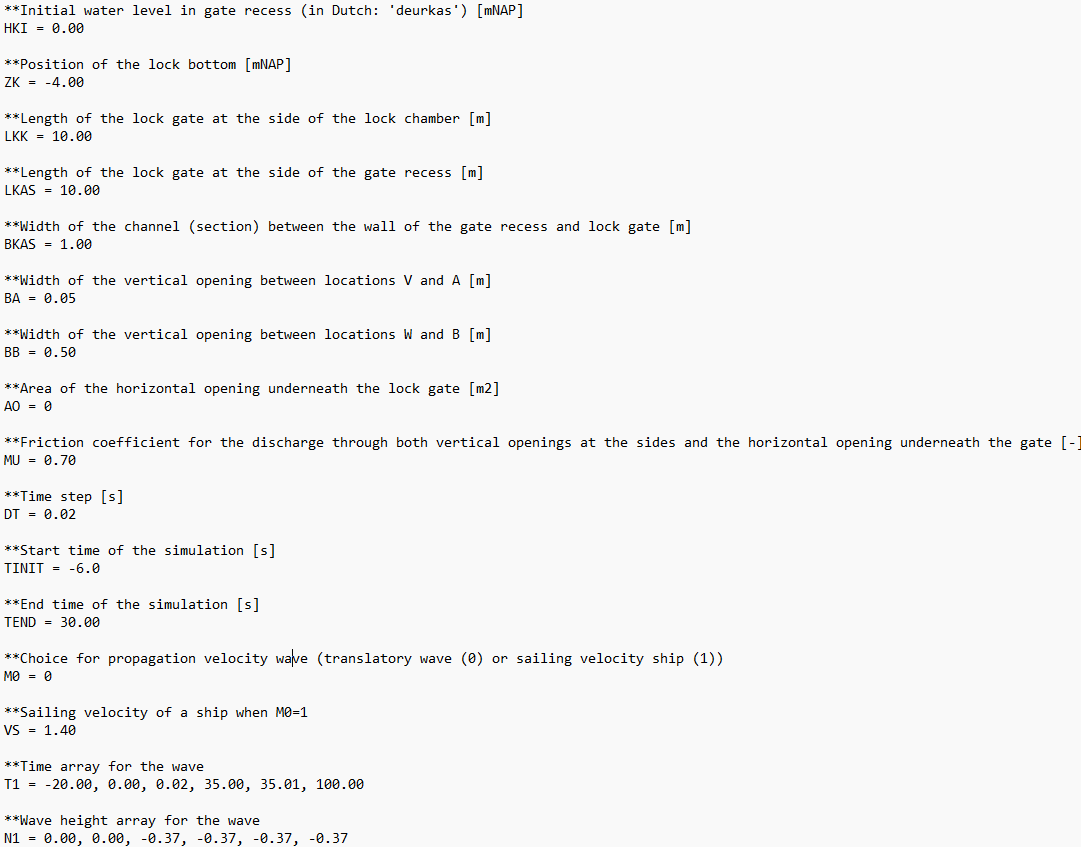
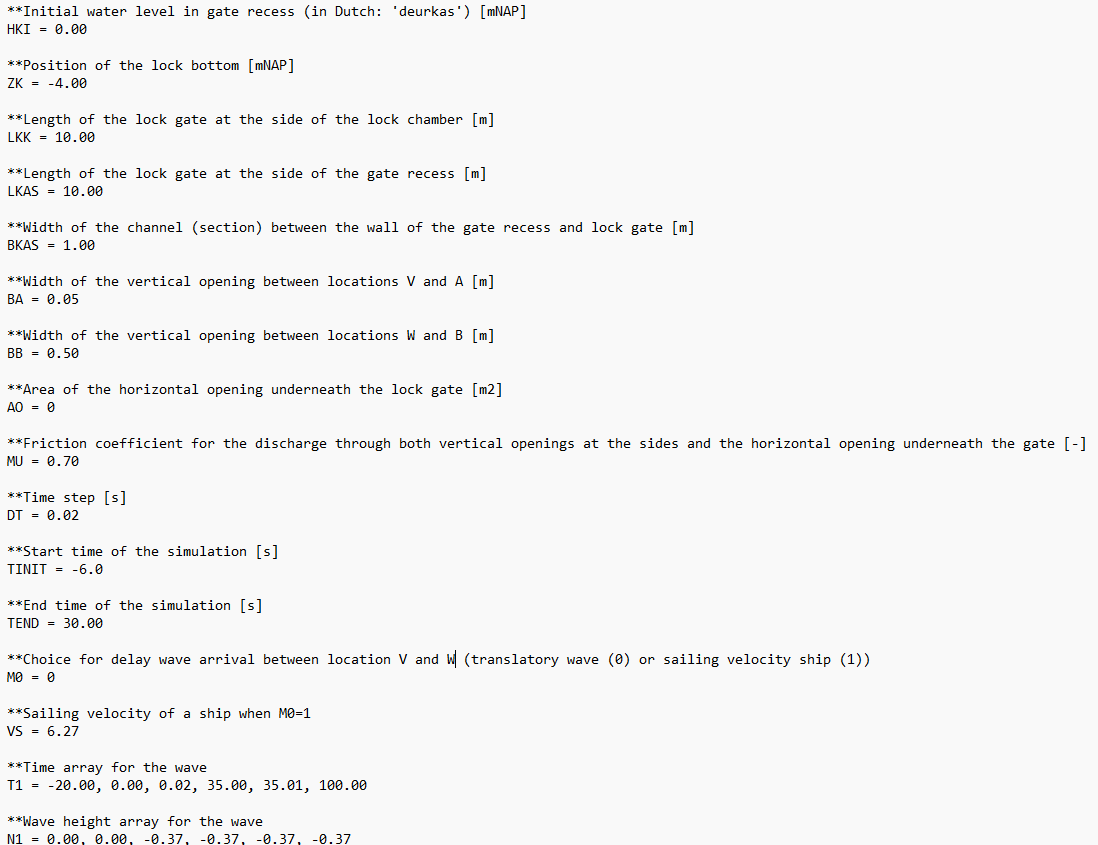
Update1_WK_review

Changed region(s): [[0.0, 0.0, 1.0, 0.6154], [0.0, 0.7077, 0.7937, 1.0], [0.0, 0.6462, 0.2442, 0.6769]]

diff --git a/src/lockgate/Schip/KASGOLF_v5.py b/src/lockgate/Schip/KASGOLF_v5.py
@@ -105,6 +105,9 @@ else:
     DTG = Dict_inv['LKK'] / Dict_inv['VS']           #looptijd golf in kas bij vaarsnelheid (M0 == 1)
 
 #Check of de vaarsnelheid groter is dan de loopsnelheid translatiegolf. Zo niet, kies andere vaarsnelheid
+
+## 24-12-2024!!! VS MAG WEL HOGER ZIJN DAN CK. NAMELIJK, HET SCHIP MAG SNELLER DAN CK AANGEZIEN DEZE EEN GOLF VOORTDUWT EN SNELLER BIJ NW KAN ZIJN DAN OP BASIS VAN CK.
+## LANGZAMER IS WEL EEN DING, DAN KRIJG JE VOORTPLANTING VAN EEN GOLF VOOR HET SCHIP DIE EERDER BIJ NW IS DAN HET SCHIP. DIT KAN DUS NIET! ZOALS NU OOK IN EHT SCRIPT STAAT
 if Dict_inv['M0'] != 0 and Dict_inv['VS'] < CK:
     raise ValueError(f'Error! Sailing velocity ship too low! Increase `VS` to >= {math.ceil(CK * 100) / 100} [m/s] or change M0 from 1 to 0 to calculate the wave propagation velocity based on waterdepth!')
 

diff --git a/docs/source/theory.rst b/docs/source/theory.rst
@@ -2,14 +2,14 @@
 Theory
 ===========
 
-KASGOLF can be used to calculate hydraulic head over an opened lockgate. The hydraulic head is the difference between the water level in the lock chamber and the water level in the gate recess. This head difference is driven by a passing wave generated by a ship that sails in or out of the lock. Through vertical openings on the sides of the gate and a horinzontal opening underneath the gate, water flows between the lock chamber and gate recess ('deurkas' in Dutch). These flows are calculated using the energy conservation law in open channel flow. As a result, a translatory wave will propagate through the gate recess affecting the head difference over the gate. The gate is considered as an infinitely thin plate, since processes within the vertical openings have minimal influence on the characteristics of the translatory wave in the gate recess and therefore can be neglected. A top view of an opened lock with propagating wave is shown in the figure below:
+KASGOLF can be used to calculate the hydraulic head over an opened lockgate. The hydraulic head is the difference between the water level in the lock chamber and the water level in the gate recess. This head difference is driven by a passing wave generated by a ship that sails in or out of the lock. Through vertical openings on the sides of the gate and a horinzontal opening underneath the gate, water flows between the lock chamber and gate recess ('deurkas' in Dutch). These flows are calculated using the energy conservation law in open channel flow. As a result, a translatory wave will propagate through the gate recess affecting the head difference over the gate. The gate is considered as an infinitely thin plate, since processes within the vertical openings have minimal influence on the characteristics of the translatory wave in the gate recess and therefore can be neglected. A top view of an opened lock with propagating wave is shown in the figure below:
 
 .. image:: ../images/overzicht_kas_kolk.png
 
-For the calculation of these water levels, the length of the gate is divided in 10 equal sections (both outer sections are half and together count as 1, see the figure below) that each have a water level on both the lock chamber and gate recess sides. By averaging the water levels in the sections, the average water level on both sides of the gate is calculated that can be translated to the head difference over the gate. Friction on the translatory wave in the gate recess is neglected in KASGOLF.
+For the calculation of these water levels, the length of the gate is divided in 10 equal sections (both channels are half and together count as 1, see the figure below) with each section having a water level on both the lock chamber and gate recess sides. By averaging the water levels in the sections, the average water level on both sides of the gate is calculated that can be translated to the head difference over the gate. Friction on the translatory wave in the gate recess is neglected in KASGOLF.
 
 .. image:: ../images/overzicht_kas_kolk_secties.png
 
-To run a simulation with KASGOLF, the bed level of the lock and the dimensions of the gate, gate recess and openings need to be inserted in the model. The wave height can be inserted as a time array. For the wave propagation velocity in the lock chamber the user of the model can choose between the propagation velocity of the translatory wave or the sailing velocity of the ship. The propagation velocity of the translatory wave is based on linear wave theory. When tthe second option is chosen, the sailing velocity has to be equal to or exceed the wave propagation velocity according to linear wave theory or an error notification will come up that provides you with the minimum required sailing velocity. Reason for that is, the code is not able to deal with waves that seperate from the ship's surface caused by a lower sailing velocity. As a result, the propagation velocity of the wave in the chamber can exceed the velocity in the gate recess.
+To run a simulation with KASGOLF, the bed level of the lock and the dimensions of the gate, gate recess and openings need to be inserted in the model. The wave height can be inserted as a time array for location A. After a certain delay, this wave height then reaches location B. The user can choose between a delay based on shallow wave theory (water depth dependent) or the ship's sailing velocity, provided it exceeds the shallow wave propagation speed. The propagation velocity of the translatory wave in gate recess is calculated using shallow wave theory. If the second option is chosen, the sailing velocity that is inserted has to be equal to or exceed the wave propagation velocity according to shallow wave theory otherwise an error notification will come up that provides you with the minimum required value for sailing velocity to use this feature. Reason for that is, the code is not able to deal with wave seperation from the ship's surface that occurs when the ship's sailing velocity is lower than the propagation velocity according to shallow wave theory.
 
 

diff --git a/docs/source/tutorial.rst b/docs/source/tutorial.rst
@@ -8,7 +8,7 @@ Defining the wave characteristics
 
 The wave enforces the change in the system, leading to hydraulic head over the lock gate. This wave is defined by two characteristics: the wave height and the wave propagation velocity. 
 
-The wave height needs to be provided as an array that describes the height of the wave at location A (see `example <https://lockgate5-branch2.readthedocs.io/en/latest/example.html>`_) throughout time. For example, the wave heights at location A are [0.0, 0.0, 0.6, 0.6] at times [-10,0,1,10]. Through linear interpolation, the wave height at times in-between two indicated moments is determined. That means that in this example the wave heights between arrival of the wave (t=0.0 [s]) and arrival of the crest (t=1.0 [s]) are determined through linear interpolation. Note that the values in the time and wave height arrays do not need to be defined at discrete intervals.
+The wave height needs to be provided as an array that describes the height of the wave at location A (see `example <https://lockgate5-branch2.readthedocs.io/en/latest/example.html>`_) throughout time. For example, the wave heights at location V are [0.0, 0.0, -0.37, -0.37, -0.37, -0.37] at times [-20.00, 0.00, 0.02, 35.00, 35.01, 100.00]. Through linear interpolation, the wave height at times in-between two indicated moments is determined. That means that in this example the wave heights between arrival of the wave (t=0.0 [s]) and arrival of the crest (t=1.0 [s]) are determined through linear interpolation. Note that the values in the time and wave height arrays do not need to be defined at discrete intervals.
 
 .. code-block:: none
     
@@ -18,11 +18,11 @@ The wave height needs to be provided as an array that describes the height of th
     **Wave height array for the wave
     N1 = 0.00, 0.00, -0.37, -0.37, -0.37, -0.37
 
-Additionally, KASGOLF allows the user to choose between two options that determine the propagation velocity of the wave in the lock chamber. The first option sets the propagation velocity of the wave equal to that of the translatory wave (M0=0), which depends on the water depth. The second option that the user can choose is to set the velocity equal to sailing velocity of a ship in the lock (M0=1). In the latter case, a value needs to provided to the parameter for ship sailing velocity (VS).
+Additionally, KASGOLF allows the user to choose between two options for the delay in the arrival of the wave in the lock chamber between location V and W. The first option calculates this delay based on the propagation velocity from shallow wave theory (M0=0), which depends on the water depth. The second option is to calculate this delay based on the sailing velocity of a ship in the lock (M0=1). In the latter case, a value needs to provided to the parameter for ship sailing velocity (VS).
 
 .. code-block:: none
 
-    **Choice for propagation velocity wave (translatory wave (0) or sailing velocity ship (1))
+    **Choice for delay wave arrival between location V and W (translatory wave (0) or sailing velocity ship (1))
     M0 = 0
 
     **Sailing velocity of a ship when M0=1
@@ -81,7 +81,7 @@ The input file (``.in``) can now be created. The standard format for input files
     **End time of the simulation [s]
     TEND = 30.00
 
-    **Choice for propagation velocity wave (translatory wave (0) or sailing velocity ship (1))
+    **Choice for delay wave arrival between location V and W (translatory wave (0) or sailing velocity ship (1))
     M0 = 0
 
     **Sailing velocity of a ship when M0=1

diff --git a/docs/source/KASGOLF.rst b/docs/source/KASGOLF.rst
@@ -1,16 +1,16 @@
 KASGOLF
 =============  
 
-This documentation is for **KASGOLF**, a 1D `Deltares <https://www.deltares.nl/>`_ tool for calculating the effect of a wave originating from a ship sailing past an opened lock gate (when the gate is located in the gate recess ('deurkas' in Dutch)).  KASGOLF is able to calculate the head difference over time for a gate with vertical openings at the sides as well as for a horizontal opening underneath the gate. KASGOLF was originally developed by Delft Hydraulics in 1994 as part of LOCKGATE2 [1]. The code has been converted from the original Fortran code to the currently available Python code in 2024 and contains the same functionality as version KASGOLF 1994. 
+This documentation is for **KASGOLF**, a 1D `Deltares <https://www.deltares.nl/>`_ tool for calculating the effect of a wave originating from a ship sailing past an opened lockgate (when the gate is located in the gate recess ('deurkas' in Dutch)).  KASGOLF is able to calculate the head difference over time for a gate with vertical openings at the sides as well as for a horizontal opening underneath the gate. KASGOLF was originally developed by Delft Hydraulics in 1994 as part of LOCKGATE2 [1]. The code has been converted from the original Fortran code to the currently available Python code in 2024 and contains the same functionality as version KASGOLF 1994. 
 
-The KASGOLF code has been explained in the report ‘Krachten op puntdeuren en enkele draaideuren’ [3] and examples of simulation results from the code are presented [1] & [3]. The code and its simulation results have not yet been validated with measurement data since the code has been setup to make quick and rough estimations [2]. 
+The KASGOLF code has been explained in the report ‘Krachten op puntdeuren en enkele draaideuren’ [3] and examples of simulation results from the code are presented in [1] & [3]. The code and its simulation results have not yet been validated with measurement data since the code has been setup to make quick and rough estimations [2]. 
 
-The KASGOLF documentation covers the following topics:
+The KASGOLF documentation covers the following topics.
 1. The theory on which KASGOLF is based,
 2. An example calculation,
 3. A tutorial for setting up a KASGOLF schematization,
 4. Instructions for running KASGOLF on your computer,
-5. A sensitivity analysis that investigates the response of the simulation result to adjustments in a selection of parameters
+5. A sensitivity analysis that investigates the response of the simulation result to adjustments in a selection of parameters.
 
 .. toctree::
    :maxdepth: 1
@@ -28,6 +28,6 @@ The KASGOLF documentation covers the following topics:
 ----------
 Literature
 ----------
-[1] WL | Delft Hydraulics (1994). ‘Krachten op puntdeuren en enkele draaideuren’ Report Q1442.
-[2] WL | Delft Hydraulics (1997). ‘Sluisprogrammatuur REN’ Report Q2317.
+[1] WL | Delft Hydraulics (1994). ‘Krachten op puntdeuren en enkele draaideuren’ Report Q1442.\
+[2] WL | Delft Hydraulics (1997). ‘Sluisprogrammatuur REN’ Report Q2317.\
 [3] Ministerie van Verkeer en Waterstaat, Rijkswaterstaat, Bouwdienst (RWS, BD) (2000). ‘Handboek voor het ontwerpen van schutsluizen’.

diff --git a/docs/source/sensitivity-analysis.rst b/docs/source/sensitivity-analysis.rst
@@ -3,7 +3,7 @@ Sensitivity Analysis
 
 The use of sailing velocity (M0=1)
 --------------------------------
-As mentioned in `getting started <https://lockgate5-branch2.readthedocs.io/en/latest/theory.html>`_, the user can choose to define the wave propagation velocity in the lock chamber through the sailing velocity of a ship. Note that this needs to have a higher value than is calculated by linear wave theory, otherwise the code will raise an error. As a result, the wave in the lock chamber propagates with an equal to or higher velocity than the translatory wave in the gate recess. In the example below a sailing velocity of 10.0 m/s is used (translatory wave propagation velocity = +/- 6.27 [m/s]).
+As mentioned in `getting started <https://lockgate5-branch2.readthedocs.io/en/latest/theory.html>`_, the user can choose to define the delay of wave arrival between location V and W in the lock chamber through the sailing velocity of a ship. Note that this value needs to be larger than is calculated by shallow wave theory, otherwise the code will raise an error. As a result, the wave in the lock chamber propagates with an equal to or higher velocity than the translatory wave in the gate recess. In the example below a sailing velocity of 10.0 m/s is used (translatory wave propagation velocity = +/- 6.27 [m/s]).
 
 .. image:: ../images/Test_1.png
 
@@ -16,7 +16,7 @@ A space is present between the gate and gate recess wall, referred to as 'channe
 
 .. image:: ../images/Test_2.png
 
-As the figure shows, reducing the width of the channel also reduces the peak in head difference over the gate. Reason for this is, a smaller channel results in a larger wave height of the translatory wave. At the same time it can be seen that the influence of the numerical instability increases. This effect is reduced for a wider channel, because the waveheight of the translatory wave is less sensitive.
+As the figure shows, reducing the width of the channel also reduces the peak in head difference over the gate. Reason for this is, a smaller channel results in a larger wave height of the translatory wave in the gate recess. At the same time it can be seen that the influence of the numerical instability increases. This effect is reduced for a wider channel, because the waveheight of the translatory wave is less sensitive.
 
 Width of the vertical opening 
 --------------------------------
@@ -30,7 +30,7 @@ From the figure it can be seen that the head difference is highly sensitive to t
 Horizontal opening underneath the gate
 --------------------------------
 
-In addition to vertical openings on the sides of the gate, also a horizontal opening can be present underneath the gate. This variable is given as the area of this opening in [m2] (AO). In previous runs, no horizontal opening was present. In the figure below this opening is implemented with varying area.
+In addition to vertical openings at the sides of the gate, also a horizontal opening can be present underneath the gate. This variable is given as the area of this opening in [m2] (AO). In previous runs, no horizontal opening was present. In the figure below this opening is implemented with varying area.
 
 .. image:: ../images/Test_4.png
 

diff --git a/docs/source/example.rst b/docs/source/example.rst
@@ -6,11 +6,11 @@
 
 Example: Simple lock with schematized wave
 ===========
-This example demonstrates the capability of the KASGOLF code by applying it to an hypothetical scenario. An overview of the lock and lockgate can be found in the figure below. The simulation starts at time t=-6.0 [s] with a time step of 0.02 [s]. A wave arrives at location A at time t=0 [s] and propagates to B with the propagation velocity of the translatory wave (M0=0) that is calculated using linear wave theory. It is assumed that there is no horizontal opening underneath the gate and the friction coefficient (:math:`\mu`) for the discharge through the vertical and horizontal openings between the lock chamber and gate recess is equal to 0.70 [-]. 
+This example demonstrates the capability of the KASGOLF code by applying it to an hypothetical scenario. An overview of the lock and lockgate can be found in the figure below. The simulation starts at time t=-6.0 [s] with a time step of 0.02 [s]. A wave arrives at location V at time t=0 [s] and reaches location W according to the propagation velocity that is calculated using shallow wave theory (M0=0). It is assumed that there is no horizontal opening underneath the gate (AO=0) and the friction coefficient (:math:`\mu`) for the discharge through the vertical and horizontal openings between the lock chamber and gate recess is equal to 0.70 [-]. 
 
 .. image:: ../images/example_berekening.png
 
-The result of schematizing the example lock will be generated by the code and shown in one figure. This figure shows the hydraulic head over the lock gate throughout time. The output png figure is stored in the same directory and with the same name of the input file. The output figure of the previously schematized example is shown in the figure below:
+The result of schematizing the example lock will be generated by the code and shown in one figure. This figure shows the hydraulic head over the lockgate throughout time. Negative head is directed to the lock chamber and positive head is directed towards the gate recess. The output png figure is stored in the same directory and with the same name as the input file. The output figure of the previously schematized example is shown in the figure below:
 
 .. image:: ../images/example_uitvoer_code.png
 

diff --git a/docs/source/getting-started.rst b/docs/source/getting-started.rst
@@ -13,7 +13,7 @@ Typical end-users will use the function :py:func:`runKasgolf` to run a KASGOLF s
 
 Running a simulation
 --------------------------
-Upon running a simulation with :py:func:`runKasgolf` a file explorer window will be opened that allows you to select one input file (``.in``) that is required for the simulation which describes the lock and gate characteristics. The input file already includes the decision for the method that is used to calculate the propagation velocity of the wave in the lock chamber (translatory wave (M0=0) or using the velocity of a passing ship (M0=1)). The KASGOLF code generates an output png figure which is stored in the same directory and with the same name of the input file in which '.in' is replaced by '.png'. An overview of the input file is provided in the figure below. 
+Upon running a simulation with :py:func:`runKasgolf` a file explorer window will be opened that allows you to select one input file (``.in``) that is required for the simulation which describes the lock and gate characteristics and the wave boundary conditions. The input file already includes the decision for the method that is used to calculate the propagation velocity of the wave in the lock chamber (translatory wave (M0=0) or using the velocity of a passing ship (M0=1)). The KASGOLF code generates an output png figure which is stored in the same directory and with the same name of the input file in which '.in' is replaced by '.png'. An overview of the input file is provided in the figure below. 
 
 .. image:: ../images/example_invoer.png
 
